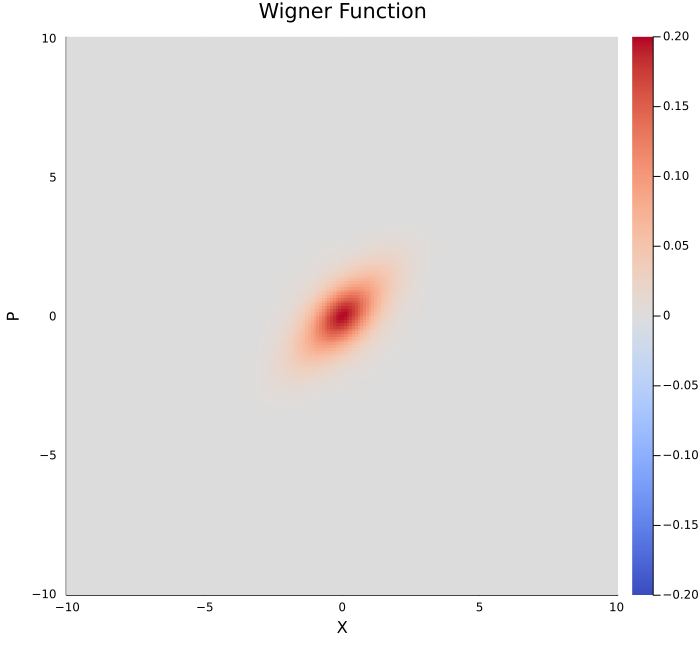
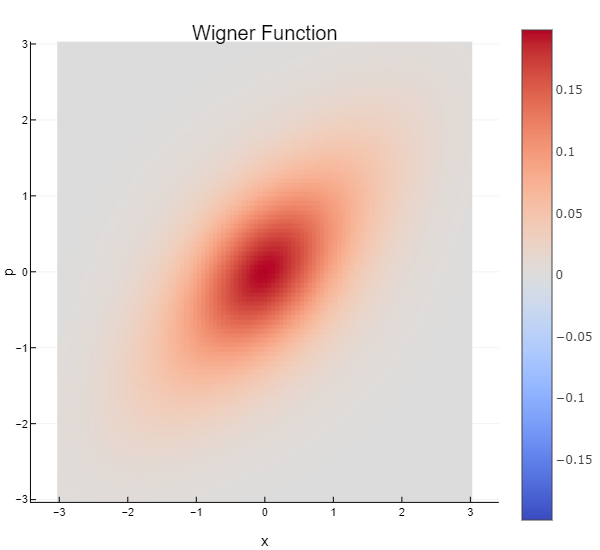
Revise index of doc

diff --git a/docs/src/index.md b/docs/src/index.md
@@ -22,44 +22,13 @@ pkg> add QuantumStateBase
 ```julia
 julia> using QuantumStateBase, Plots
 
-julia> state = SqueezedThermalState(ξ(0.5, 3π/2), 0.3);
+julia> state = SqueezedThermalState(0.5, 3π/2, 0.3, dim=35);
 
-julia> wf = WignerFunction(-10:0.1:10, -10:0.1:10);
-
-julia> w = wf(state);
+julia> w = wigner(state, LinRange(-3, 3, 101), LinRange(-3, 3, 101));
 
 julia> heatmap(w.x_range, w.p_range,  w.𝐰_surface')
 ```
 
 ```@raw html
 <img src="assets/squeezed_thermal_heatmap.png" width="50%"/>
-```
-
-### Plot quadrature probability density function of the state
-
-```julia
-julia> θs = LinRange(0, 2π, 100);
-
-julia> xs = LinRange(-10, 10, 100);
-
-julia> ps = q_pdf(state, θs, xs);
-
-julia> heatmap(θs, xs, ps')
-```
-
-```@raw html
-
-<img src="assets/squeezed_thermal_quad.png" width="50%"/>
-```
-
-### Sample points from quadrature PDF of the state
-
-```julia
-julia> points = rand(state, 4096);
-
-julia> scatter(points[1, :], points[2, :])
-```
-
-```@raw html
-<img src="assets/squeezed_thermal_sampled.png" width="50%"/>
 ```
